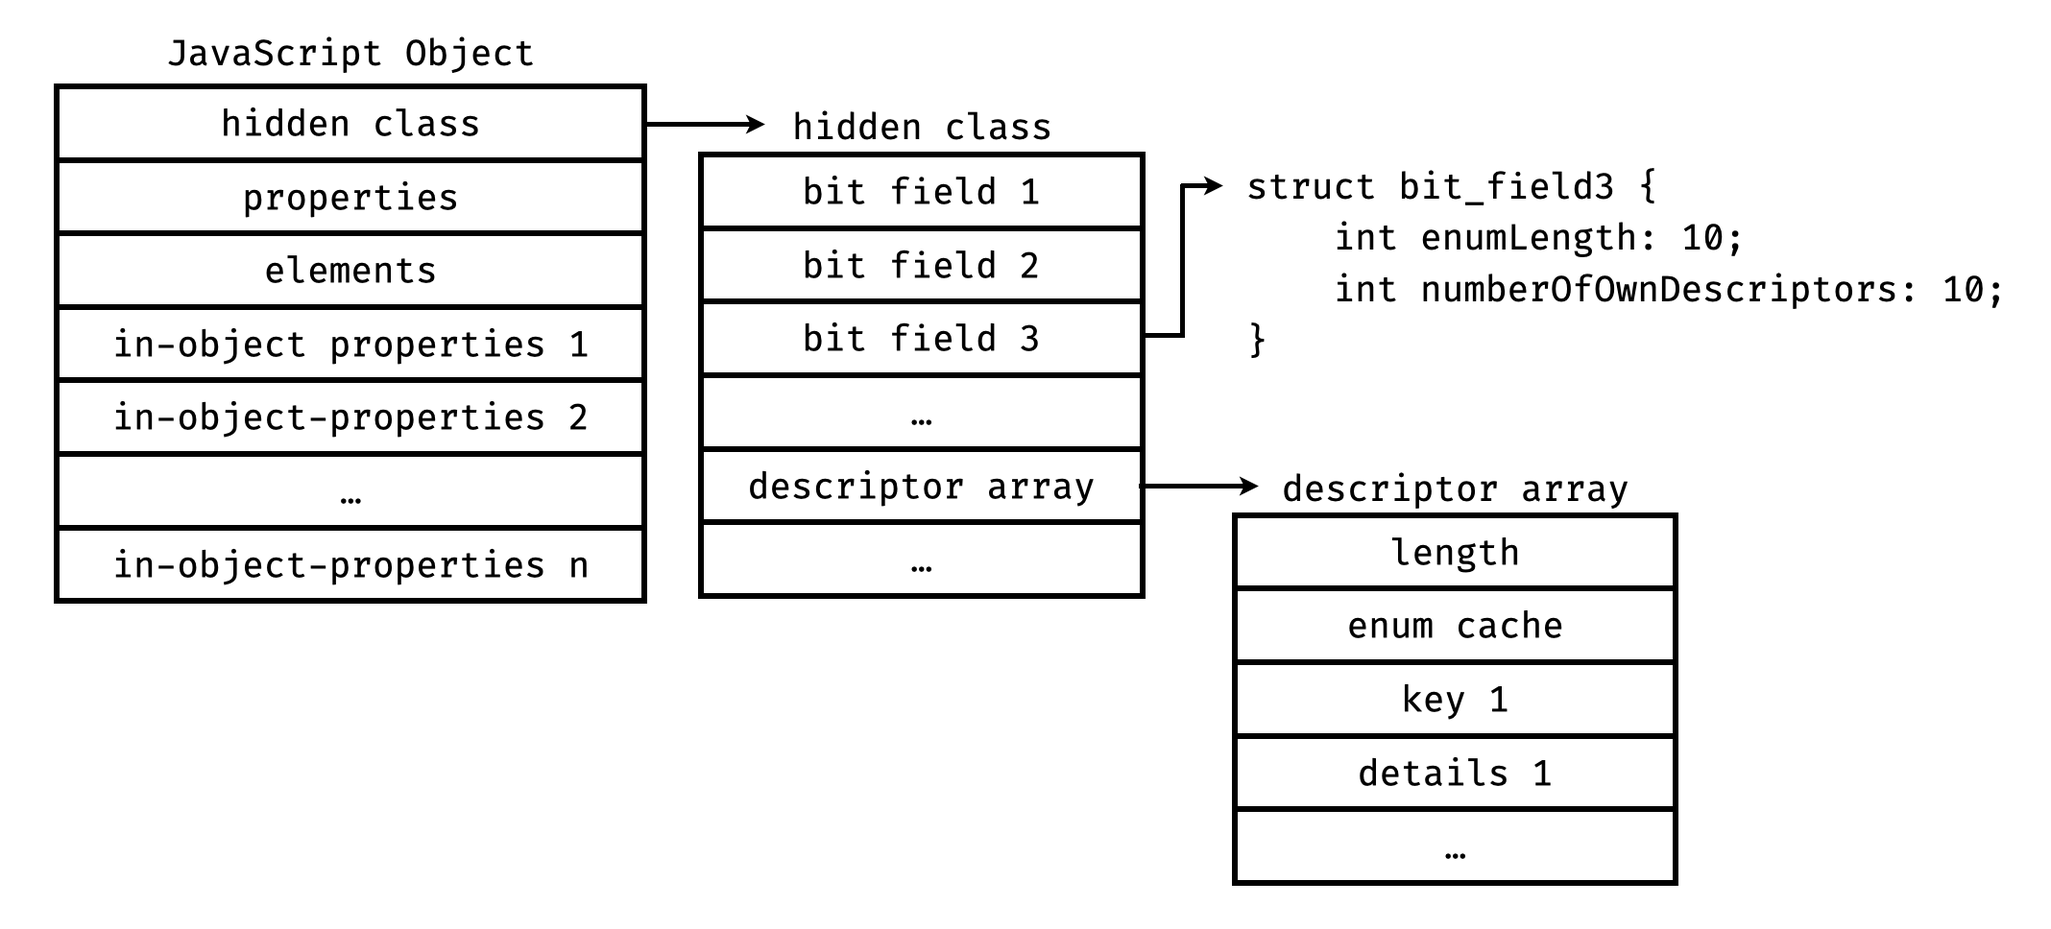
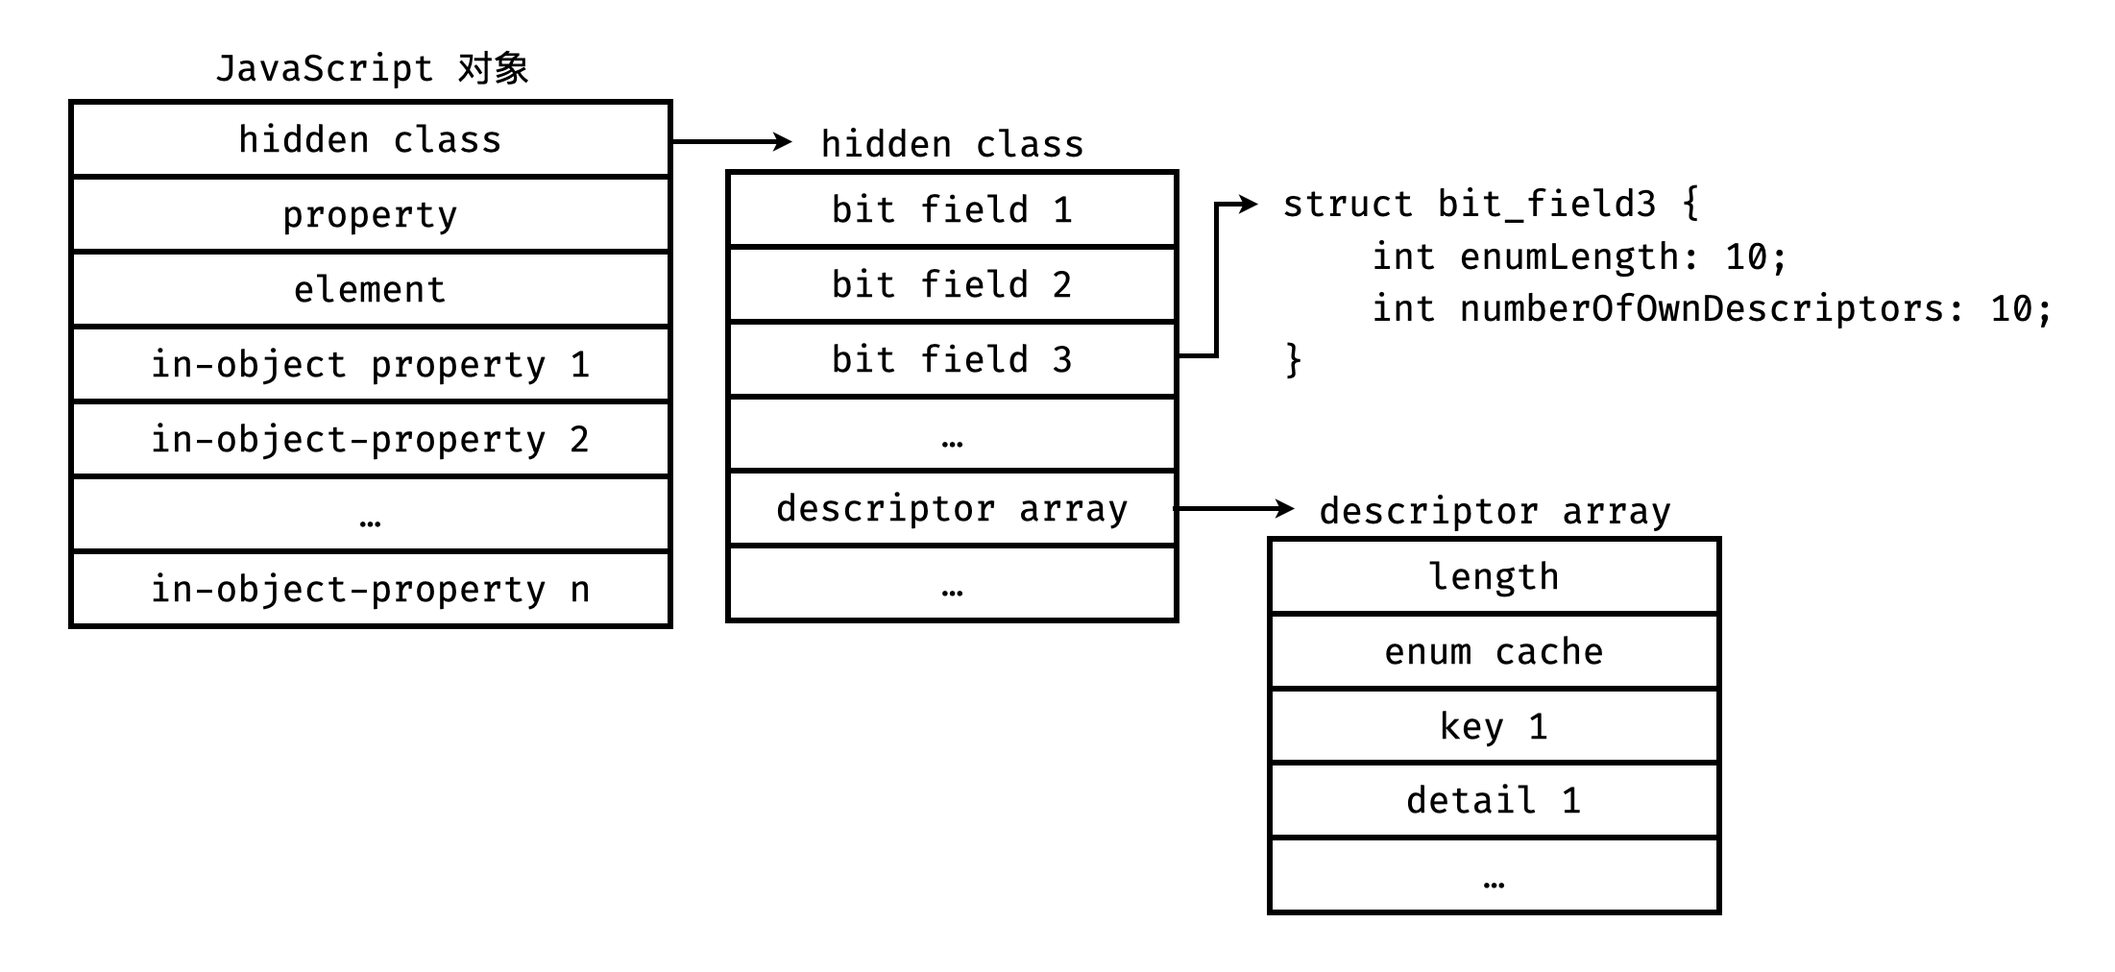
update v8-object.md

Changed region(s): [[0.0, 0.031, 0.9888, 0.6508], [0.5871, 0.4959, 0.8343, 0.9607], [0.4944, 0.4959, 0.5253, 0.5269]]

diff --git a/markdown/javascript/v8-object.md b/markdown/javascript/v8-object.md
@@ -57,29 +57,29 @@ internal information...           // output
 
 ## 实现
 
-JavaScript 对象拥有两类属性，一类是命名属性（named properties），一类是数组索引属性（array-indexed properties）。不过 V8 官方将命名属性简称为 properties，将数组索引属性简称为 elements，本文会沿用 V8 官方的叫法，因为这种叫法更加简洁。
+JavaScript 对象拥有两类属性，一类是命名属性（named property），一类是数组索引属性（array-indexed property）。 V8 官方将命名属性简称为 property，将数组索引属性简称为 element，本文会沿用 V8 官方的叫法，因为这种叫法更加简洁。
 
 V8 引擎是使用 C++ 来编写的，同时还使用到了 JavaScript 和汇编，不过在 C++ 中，并没有一种像 JavaScript 对象一样的 API，所以 V8 团队需要亲自实现 JavaScript 对象。
 
-具体来说，V8 引擎会创建一个定长数组来存储 JavaScript 对象，为方便起见，本文会将该数组称为 JavaScript 对象数组。不过 V8 引擎并不会直接将 properties 和 elements 直接存储在这个 JavaScript 对象数组上，而是将它们分别存储在另外两个独立的数据结构中，然后令 JavaScript 对象数组的第二个元素指向存储 properties 的数据结构，令 JavaScript 对象数组的第三个元素指向存储 elements 的数据结构，正如下图所示。
+具体来说，V8 引擎会创建一个定长数组来存储 JavaScript 对象，为方便起见，本文会将该数组称为 JavaScript 对象数组。不过 V8 引擎并不会直接将 property 和 element 直接存储在这个 JavaScript 对象数组上，而是将它们分别存储在另外两个独立的数据结构中，然后令 JavaScript 对象数组的第二个元素指向存储 property 的数据结构，令 JavaScript 对象数组的第三个元素指向存储 element 的数据结构，正如下图所示。
 
-![Properties和Elements](/static/image/markdown/javascript/properties-and-elements.png)
+![property和element](/static/image/markdown/javascript/property-and-element.png)
 
-下文将会详细描述 V8 引擎是如何存储 properties 和 elements 的。
+下文将会详细描述 V8 引擎是如何存储 property 和 element 的。
 
-### properties
+### property
 
-properties 的准确名称是 named properties，译为命名属性，是指使用除了正整数字符串之外的其他字符串来作为键的属性，比如 `{ a: 1 }` 等，另外，使用 `Symbol` 类型的值来作为键的属性也属于 properties。
+property 的准确名称是 named property，译为命名属性，是指使用除了正整数字符串之外的其他字符串来作为键的属性，比如 `{ a: 1 }` 等，另外，使用 `Symbol` 类型的值来作为键的属性也属于 property。
 
-#### in-object properties
+#### in-object property
 
-首先，V8 引擎在创建 JavaScript 对象数组的时候，就会在该数组上预留一些空间来存储 properties，而这些被直接存储在 JavaScript 对象数组上的 properties 就被称为 in-object properties。
+首先，V8 引擎在创建 JavaScript 对象数组的时候，就会在该数组上预留一些空间来存储 property，而这些被直接存储在 JavaScript 对象数组上的 property 就被称为 in-object property。
 
-JavaScript 对象数组的 in-object properties 容量取决于你创建 JavaScript 对象的方式，并且这个容量是不可改变的。而超出容量的 properties 将会被存储在另一个独立的数据结构中，这个数据结构的内存地址将会被存储在 JavaScript 对象数组的第二个元素上。V8 将这些存储在独立的数据结构中的 properties 称为 normal properties。
+JavaScript 对象数组的 in-object property 容量取决于你创建 JavaScript 对象的方式，并且这个容量是不可改变的。而超出容量的 property 将会被存储在另一个独立的数据结构中，这个数据结构的内存地址将会被存储在 JavaScript 对象数组的第二个元素上。V8 将这些存储在独立的数据结构中的 property 称为 normal property。
 
-![In-object properties](/static/image/markdown/javascript/in-object-and-normal-properties.png)
+![in-object property和normal property](/static/image/markdown/javascript/inobject-and-normal-property.png)
 
-比如，以字面量赋值的形式来创建具有 3 个命名属性的对象，那么这个对象的 in-object properties 容量就是 3，后续增加的命名属性都将会被存储在另一个独立的数据结构中，即作为 normal properties 来处理。
+比如，以字面量赋值的形式来创建具有 3 个命名属性的对象，那么这个对象的 in-object property 容量就是 3，后续增加的命名属性都将会被存储在另一个独立的数据结构中，即作为 normal property 来处理。
 
 ```
 > node --allow-natives-syntax
@@ -89,53 +89,87 @@ JavaScript 对象数组的 in-object properties 容量取决于你创建 JavaScr
 > %DebugPrint( obj );
 ```
 
-第一次 `%DebugPrint( obj )` 的输出如下，此时，`obj` 的 in-object properties 容量为 3，`a`、`b`、`c` 属性都被当作 in-object properties 来处理，负责存储 normal properties 的 `FixedArray` 的长度为 0，这代表着 obj 中没有任何 normal properties。
+第一次 `%DebugPrint( obj )` 的输出如下，此时，`obj` 的 in-object property 容量为 3，`a`、`b`、`c` 属性都被当作 in-object property 来处理，负责存储 normal property 的 `FixedArray` 的长度为 0，这代表着 obj 中没有任何 normal property。
 
-![In-object properties的容量](/static/image/markdown/javascript/in-object-properties-capacity-1.png)
+![in-object property的容量](/static/image/markdown/javascript/in-object-properties-capacity-1.png)
 
-第二次 `%DebugPrint( obj )` 的输出如下，此时，obj 的 in-object properties 容量仍然为 3，`a`、`b`、`c` 属性仍然被当作 in-object properties 来处理，后续新增的 `d` 属性则被当作 normal properties 来处理，负责存储 normal properties 的 `PropertyArray` 的长度为 3。
+第二次 `%DebugPrint( obj )` 的输出如下，此时，obj 的 in-object property 容量仍然为 3，`a`、`b`、`c` 属性仍然被当作 in-object property 来处理，后续新增的 `d` 属性则被当作 normal property 来处理，负责存储 normal property 的 `PropertyArray` 的长度为 3。
 
-![In-object properties的容量](/static/image/markdown/javascript/in-object-properties-capacity-2.png)
+![in-object property的容量](/static/image/markdown/javascript/in-object-properties-capacity-2.png)
 
-另外，in-object properties 的访问速度要比 normal properties 和 elements 的访问速度更快，因为如果 V8 引擎想要找到某个 in-object properties，那么 V8 引擎可以直接在 JavaScript 对象数组上找到，而如果 V8 引擎想要找到某个 normal properties 或 elements，那么 V8 引擎需要先在 JavaScript 对象数组上找到存储 normal properties 或 elements 的地址，然后再在这个地址中继续寻找目标属性。
+> 我不知道 V8 引擎究竟是根据什么来决定 in-object property 容量的，上述例子只是一个个例。
 
-最后，试想一下，如果我们经常采用字面量赋值的方式来创建仅仅拥有几个命名属性的小型对象，那么这些小型对象的属性访问效率将会很高，因为这些小型对象的命名属性都被当作 in-object properties 来处理了，这正是 V8 引擎设计 in-object properties 的原因。
+另外，in-object property 的访问速度要比 normal property 和 element 的访问速度更快，因为如果 V8 引擎想要找到某个 in-object property，那么 V8 引擎可以直接在 JavaScript 对象数组上找到，而如果 V8 引擎想要找到某个 normal property 或 element，那么 V8 引擎需要先在 JavaScript 对象数组上找到存储 normal property 或 element 的地址，然后再在这个地址中继续寻找目标属性。
 
-#### normal properties
+最后，试想一下，如果我们经常采用字面量赋值的方式来创建仅仅拥有几个命名属性的小型对象，那么这些小型对象的属性访问效率将会很高，因为这些小型对象的命名属性都被当作 in-object property 来处理了，这正是 V8 引擎设计 in-object property 的原因。
 
-normal properties 是指存储在独立的数据结构中的 properties，即非 in-object properties 的 properties。
+#### normal property
 
-V8 引擎会使用数组或字典中的其中一种来存储 normal properties。具体来说，V8 引擎要么会使用 `FixedArray` 和 `PropertyArray` 等类来存储 normal properties，要么会使用 `NameDictionary` 等类来存储 normal properties。其中 `FixedArray` 和 `PropertyArray` 是由 V8 引擎自己实现的数组，`NameDictionary` 是由 V8 引擎自己实现的字典，并且该字典是基于散列表来实现的。
+normal property 是指存储在独立的数据结构中的 property，即非 in-object property 的 property。
 
-如果 V8 引擎使用 `FixedArray` 或 `PropertyArray` 等数组数据结构来存储 normal properties，那么 V8 官方就会将这些 normal properties 称呼为 fast properties，如果 V8 引擎使用 `NameDictionary` 等字典数据结构来存储 normal properties，那么 V8 官方就会将这些 normal properties 称呼为 slow properties 或 dictionary properties。因为数组的数据访问速度比字典的数据访问速度更快，所以 V8 官方将前者称呼为 fast properties，并将后者称呼为 slow properties。
+V8 引擎会使用数组或字典中的其中一种来存储 normal property。具体来说，V8 引擎要么会使用 `FixedArray` 和 `PropertyArray` 等类来存储 normal property，要么会使用 `NameDictionary` 等类来存储 normal property。其中 `FixedArray` 和 `PropertyArray` 是由 V8 引擎自己实现的数组，`NameDictionary` 是由 V8 引擎自己实现的字典，并且该字典是基于散列表来实现的。
+
+如果 V8 引擎使用 `FixedArray` 或 `PropertyArray` 等数组数据结构来存储 normal property，那么 V8 官方就会将这些 normal property 称呼为 fast property，如果 V8 引擎使用 `NameDictionary` 等字典数据结构来存储 normal property，那么 V8 官方就会将这些 normal property 称呼为 slow property 或 dictionary property。因为数组的数据访问速度比字典的数据访问速度更快，所以 V8 官方将前者称呼为 fast property，并将后者称呼为 slow property。
 
 > V8 引擎可以通过索引来直接访问数组中的数据，但是如果 V8 想要访问字典（基于散列表）中的数据，那么 V8 引擎就需要先通过哈希计算来算出目标数据的地址，然后再根据这个地址来访问到目标数据。所以数组的数据访问速度比字典的数据访问速度更快。
 >
 > 具体来说，使用散列表来实现字典的大致原理是通过哈希函数来将字典的键转换为一个唯一的内存地址，然后将相应的值存储在该地址中，如果需要访问字典的某个属性，那么就要通过哈希函数来计算出该属性的键所对应的内存地址，然后在这个地址中找到相应的值。因为要进行哈希计算，所以字典（基于散列表）的数据访问速度没有数组的数据访问速度快。
 
-V8 引擎更青睐于将 normap properties 存储在数组中，因为 fast properties 的属性访问速度更快，并且 V8 引擎还为其做了额外的优化，来进一步加速它的属性访问速度，比如 [inline caches](https://mrale.ph/blog/2012/06/03/explaining-js-vms-in-js-inline-caches.html)。不过，在增删属性时，fast properties 的性能会比 slow properties 的性能更差，并且如果 V8 引擎使用了 fast properties，那么在增删属性的时候，V8 引擎还需要额外的更新 hidden class。所以 V8 引擎才会支持使用字典来存储 normal properties，另外，inline caches 并不适用于 slow properties，这是 slow properties 的数据访问速度更慢的另一个原因。
+V8 引擎更青睐于将 normap property 存储在数组中，因为 fast property 的属性访问速度更快，并且 V8 引擎还为其做了额外的优化，来进一步加速它的属性访问速度，比如 [inline caches](https://mrale.ph/blog/2012/06/03/explaining-js-vms-in-js-inline-caches.html)。不过，在增删属性时，fast property 的性能会比 slow property 的性能更差，并且如果 V8 引擎使用了 fast property，那么在增删属性的时候，V8 引擎还需要额外的更新 hidden class。所以 V8 引擎才会支持使用字典来存储 normal property，另外，inline caches 并不适用于 slow property，这是 slow property 的数据访问速度更慢的另一个原因。
 
-总的来说，fast properties 访问属性的速度更快，slow properties 增删属性的速度更快。另外，V8 引擎会视情况来决定应该使用 fast properties 还是 slow properties，并且也会视情况来决定是否将 fast properties 切换为 slow properties，或反之。
+总的来说，fast property 访问属性的速度更快，slow property 增删属性的速度更快。另外，V8 引擎会视情况来决定应该使用 fast property 还是 slow property，并且也会视情况来决定是否将 fast property 切换为 slow property，或反之。
 
-> 我不清楚 V8 引擎在什么情况下才会将 fast properties 切换为 slow properties 或反之，不过，实践发现，如果我们 `delete` 了对象的一个 in-object properties，那么 V8 引擎就会将 fast properties 切换为 slow properties。
+> 我不清楚 V8 引擎在什么情况下才会将 fast property 切换为 slow property 或反之，不过，实践发现，如果我们 `delete` 了对象的一个 in-object property，那么 V8 引擎就会将 fast property 切换为 slow property。
 
 #### hidden class
 
 JavaScript 对象数组的第一个元素存储了一些关于 JavaScript 对象自身的信息，比如它的属性数量、指向原型对象的指针等，V8 官方将这个元素称为 hidden class。
 
-hidden class 是 `HiddenClass` 类的实例。`HiddenClass` 是一个类似于面向对象编程语言中的类，它由 V8 引擎实现。hidden class 的 `bit filed 3` 属性存储了 JavaScript 对象的属性数量，以及一个指向 `descriptor array` 的指针。`descriptor array` 是一个 `FixedArray` 实例，它存储了 normal properties 的信息，比如键的名称和值的地址。
+hidden class 是 `HiddenClass` 类的实例。`HiddenClass` 是一个类似于面向对象编程语言中的类，它由 V8 引擎实现。hidden class 的 `bit filed 3` 属性存储了 JavaScript 对象的属性数量，以及一个指向 `descriptor array` 的指针。`descriptor array` 是一个 `FixedArray` 实例，它存储了 normal property 的信息，比如键的名称和值的地址。
 
-`descriptor array` 是为 fast properties 服务的，具体来说，如果 V8 引擎使用数组来存储 normal properties，那么 V8 引擎是无法通过属性的键来推断出该属性的值到底存储在数组的哪个位置的。所以，V8 引擎需要将键的名称和该键所对应的值的地址关联起来，而 V8 引擎具体的做法就是将这些映射信息存储在 `descriptor array` 中。另外，由于 slow properties 是使用字典来存储数据的，所以对于 slow properties 而言，V8 引擎可以直接根据键名来在储存数据的字典中找到对应的值，所以 slow properties 不依赖 `descriptor array`。
+`descriptor array` 是为 fast property 服务的，具体来说，如果 V8 引擎使用数组来存储 normal property，那么 V8 引擎是无法通过属性的键来推断出该属性的值到底存储在数组的哪个位置的。所以，V8 引擎需要将键的名称和该键所对应的值的地址关联起来，而 V8 引擎具体的做法就是将这些映射信息存储在 `descriptor array` 中。另外，由于 slow property 是使用字典来存储数据的，所以对于 slow property 而言，V8 引擎可以直接根据键名来在储存数据的字典中找到对应的值，所以 slow property 不依赖 `descriptor array`。
 
 另外，`descriptor array` 不存储数组索引属性的信息。
 
 ![hidden class](/static/image/markdown/javascript/hidden-class.png)
 
-### elements
+### element
 
-Elements 的准确名称是 Array-indexed properties，翻译为数组索引属性，是指使用正整数字符串来作为键的属性，比如 `"0"`、`"1"` 等。需要注意的是，`"+0"`、`"-0"`、`"+1"`、`"-1"` 等都不属于正整数字符串，如果你使用它们来作为属性的键，那么这个属性就属于 Properties 而不是 Elements。
+element 的准确名称是 array-indexed property，翻译为数组索引属性，是指使用正整数字符串来作为键的属性，比如 `"0"`、`"1"` 等。需要注意的是，`"+0"`、`"-0"`、`"+1"`、`"-1"` 等都不属于正整数字符串，如果你使用它们来作为属性的键，那么这个属性就属于 property 而不是 element。
 
-因为数组只使用正整数来作为元素的索引，所以该类属性才被称为数组索引属性，而不是索引属性。
+不同于 property 的是，element 没有类似于 in-object property 的东西，所有的 element 都会直接存储在另一个独立的数据结构中，并且这个数据结构的地址将会被存储在 JavaScript 对象数组的第三个元素上。
+
+与 property 相似的是，V8 引擎也会使用数组或字典中的其中一种来存储 element，对应的数组是 `FixedArray` 的实例，对应的字典是 `NumberDictionary` 的实例，其中 `NumberDictionary` 也是一个基于散列表来实现的字典。
+
+当 V8 引擎使用数组来存储 element 时，element 的访问效率会更高。另外，因为 element 本身就是用数组索引来作为键的属性，所以对于一个 element 属性，V8 引擎会直接使用这个属性的键来作为这个属性在存储容器中的下标，比如，假设一个 element 属性的键是 `0`，那么这个属性在 `FixedArray` 实例中的下标就是 `0`。
+
+当 V8 引擎使用数组来存储 element 时，如果 element 的键不是从 `0` 起算的，或者键与键之间不是连续的，那么对应的 `FixedArray` 实例就会是有孔的。打个比方，JavaScript 对象 `{ 1:1, 3:3 }` 所对应的 `FixedArray` 实例大概是 `[ , 1, , 3 ]` 这样的，这个数组有 2 个空元素，分别是 `0` 号元素和 `2` 号元素，我们把空元素称为数组的孔，并把有孔的数组称为稀疏数组。
+
+V8 引擎会根据 `FixedArray` 实例是否有孔来标记 element，如果 `FixedArray` 是有孔数组，那么对应的 element 就会被标记为 `HOLEY`，否则就会被标记为 `PACKED`。
+
+> 此处的 `PACKED` 译为 “密实的”，而非 “打包的”。
+
+另外，V8 引擎还会根据 `FixedArray` 实例所存储的值的数据类型来标记对应的 element，比如：
+
+- 如果 `FixedArray` 实例所存储的值都是整数
+  - 且这个 `FixedArray` 实例是无孔的，那么对应的标签就是 `PACKED_SMI_ELEMENTS`
+  - 且这个 `FixedArray` 实例是有孔的，那么对应的标签就是 `HOLEY_SMI_ELEMENTS`
+- 如果 `FixedArray` 实例所存储的值都是整数和浮点数
+  - 且这个 `FixedArray` 实例是无孔的，那么对应的标签就是 `PACKED_DOUBLE_ELEMENTS`
+  - 且这个 `FixedArray` 实例是有孔的，那么对应的标签就是 `HOLEY_DOUBLE_ELEMENTS`
+- 如果 `FixedArray` 实例所存储的值都是整数和浮点数和其他
+  - 且这个 `FixedArray` 实例是无孔的，那么对应的标签就是 `PACKED_ELEMENTS`
+  - 且这个 `FixedArray` 实例是有孔的，那么对应的标签就是 `HOLEY_ELEMENTS`
+
+> `SMI` 是 `small integer` 的缩写。
+
+V8 引擎为具有不同标签的 element 进行了不同程度的优化，具体来说 `PACKED` 的 element 的效率比 `HOLEY` 的 element 的效率更高，标签语意更具体的 element 的效率比标签语意更模糊的 element 的效率更高，如下图所示。
+
+事实上，V8 引擎一共划分了 21 种
+
+## TODO
+
+更新掉所有 propertis 的名字。
 
 ## 参考
 
